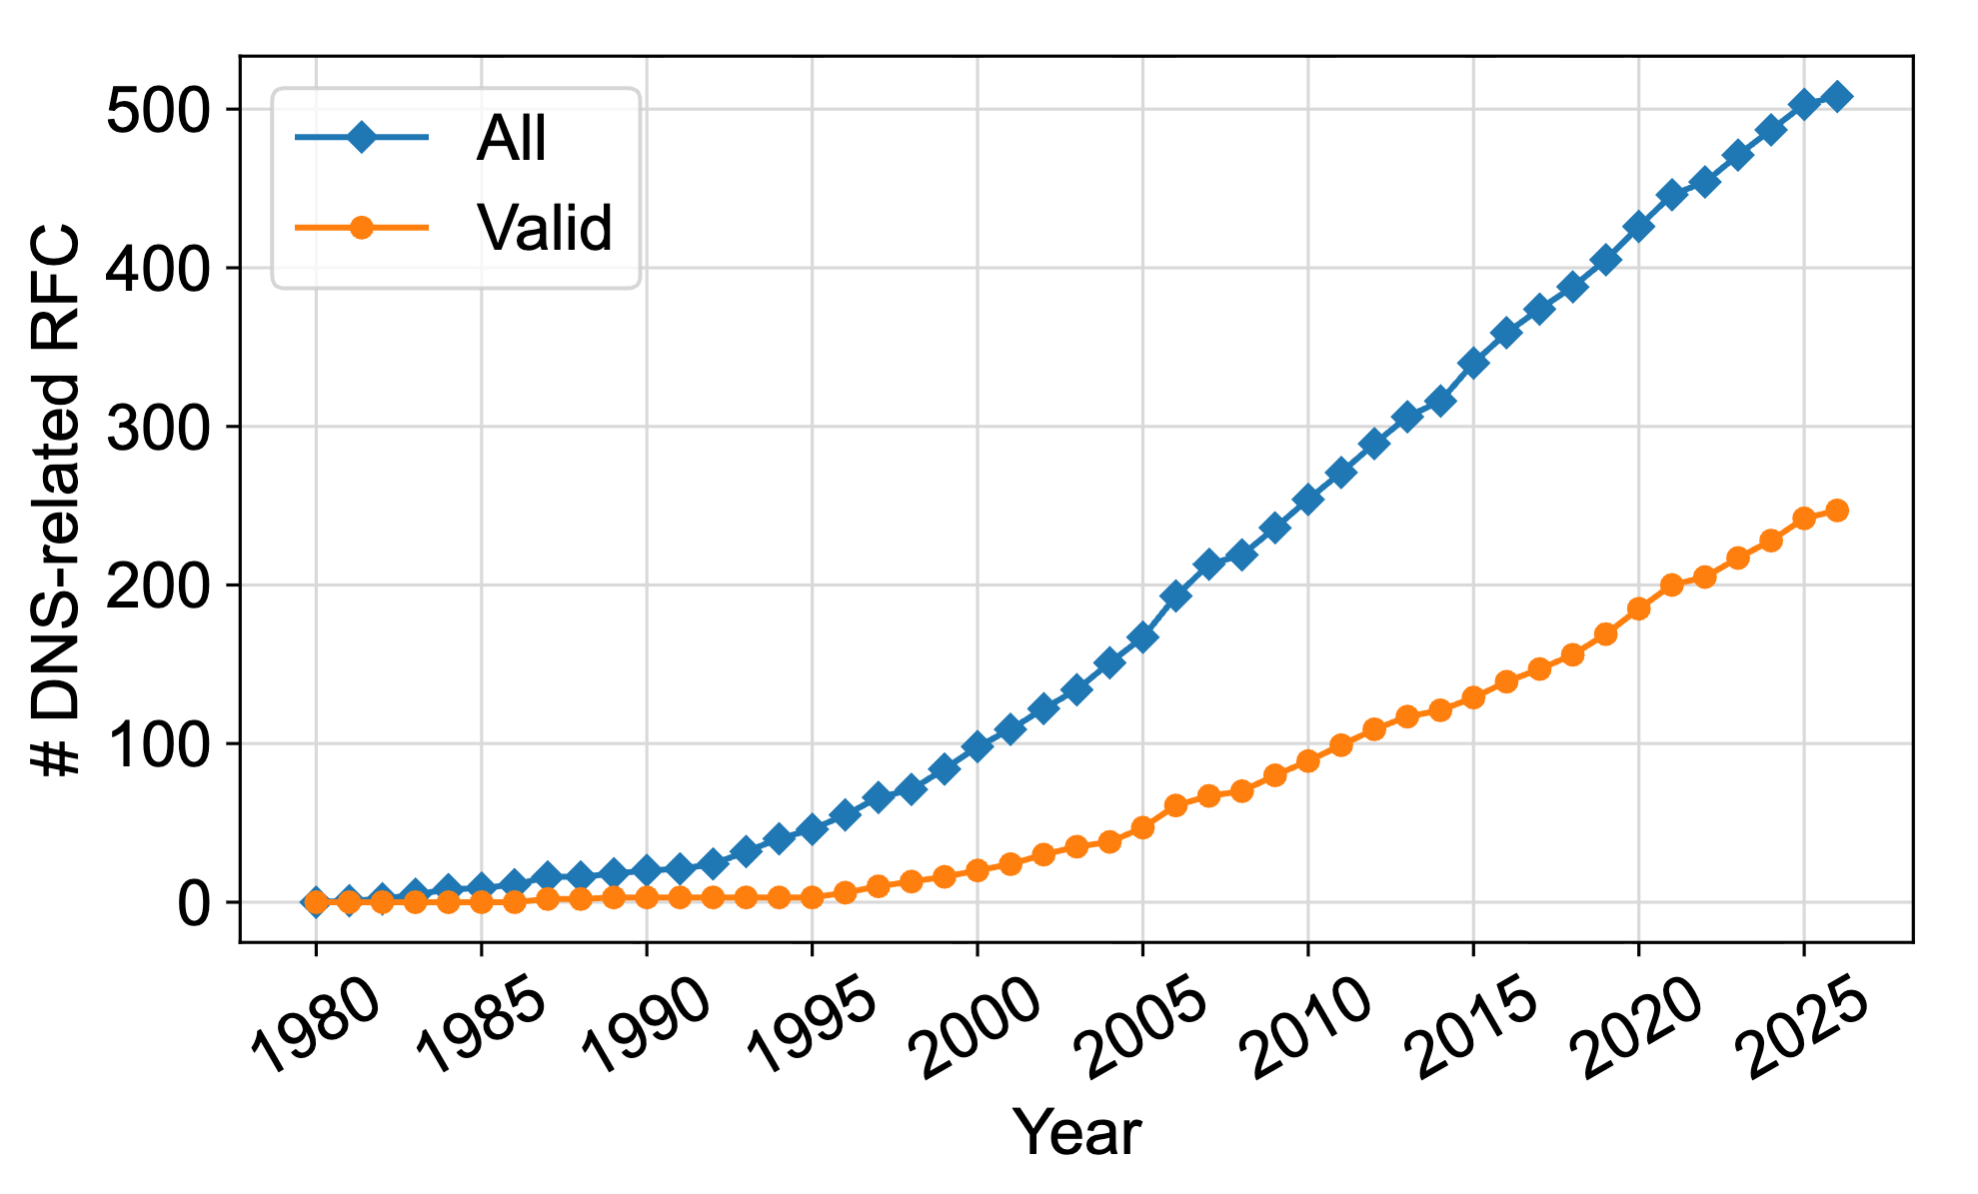
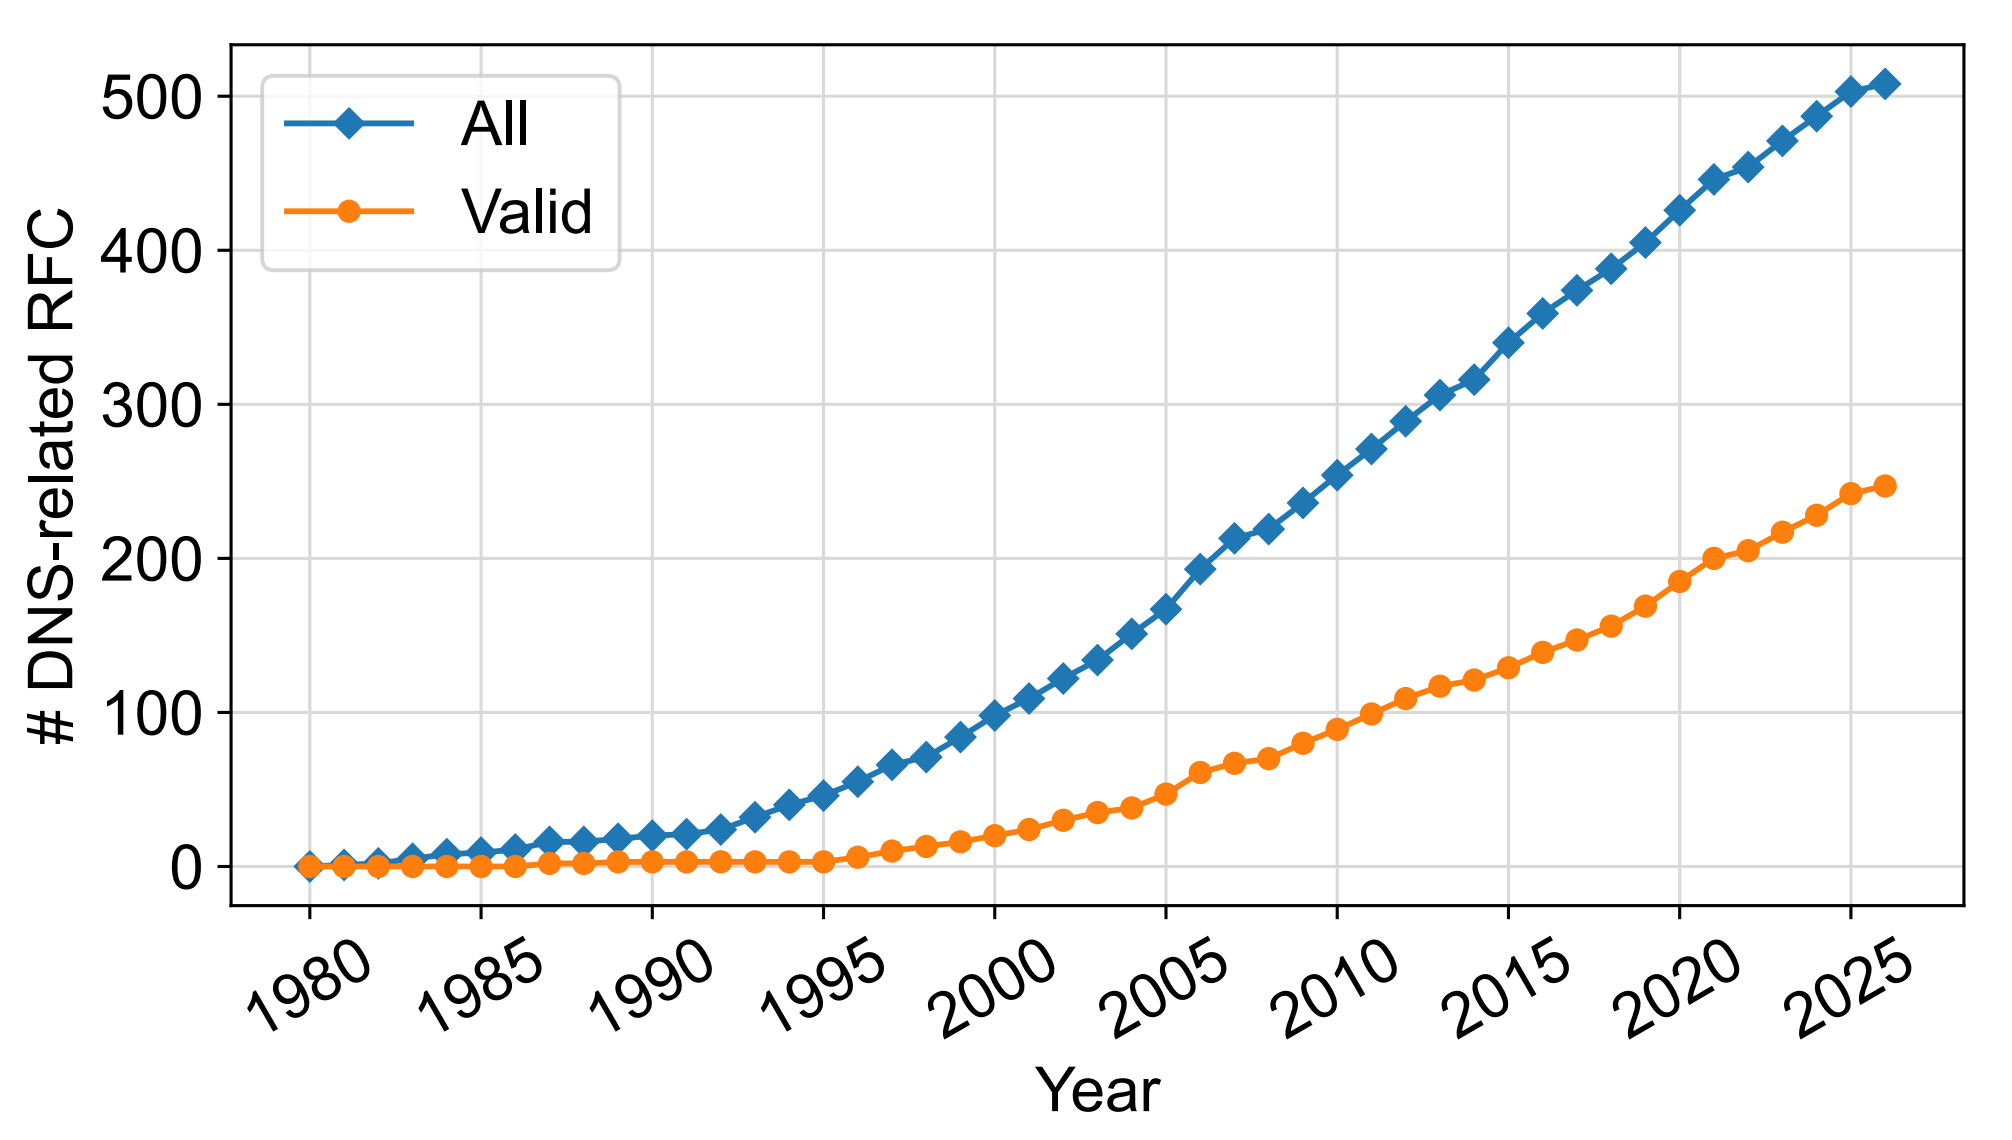
modified:   README.md 	modified:   figures/dns_rfc.png

Changed region(s): [[0.0, 0.0307, 0.9869, 0.9825]]

diff --git a/README.md b/README.md
@@ -3,7 +3,7 @@
 Last updated: 2026-06-18
 
 ## Summary
-<img src="figures/dns_rfc.png" width="500" />
+<img src="figures/dns_rfc.png" width="600" />
 
 \# all RFCs: 508
 